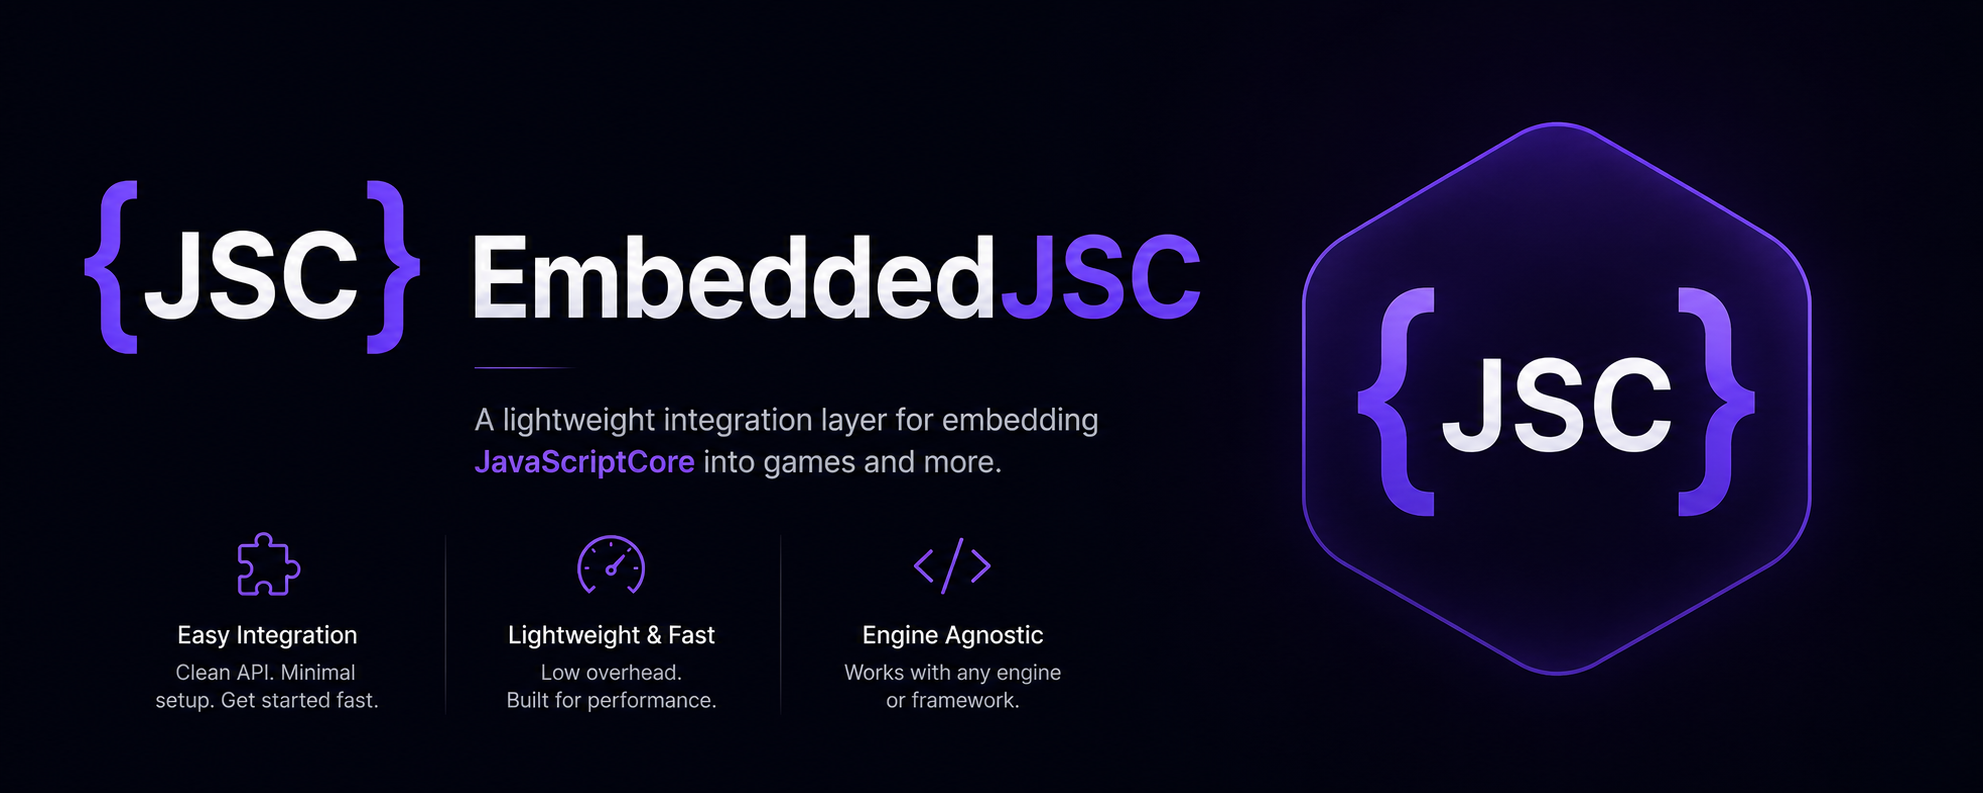
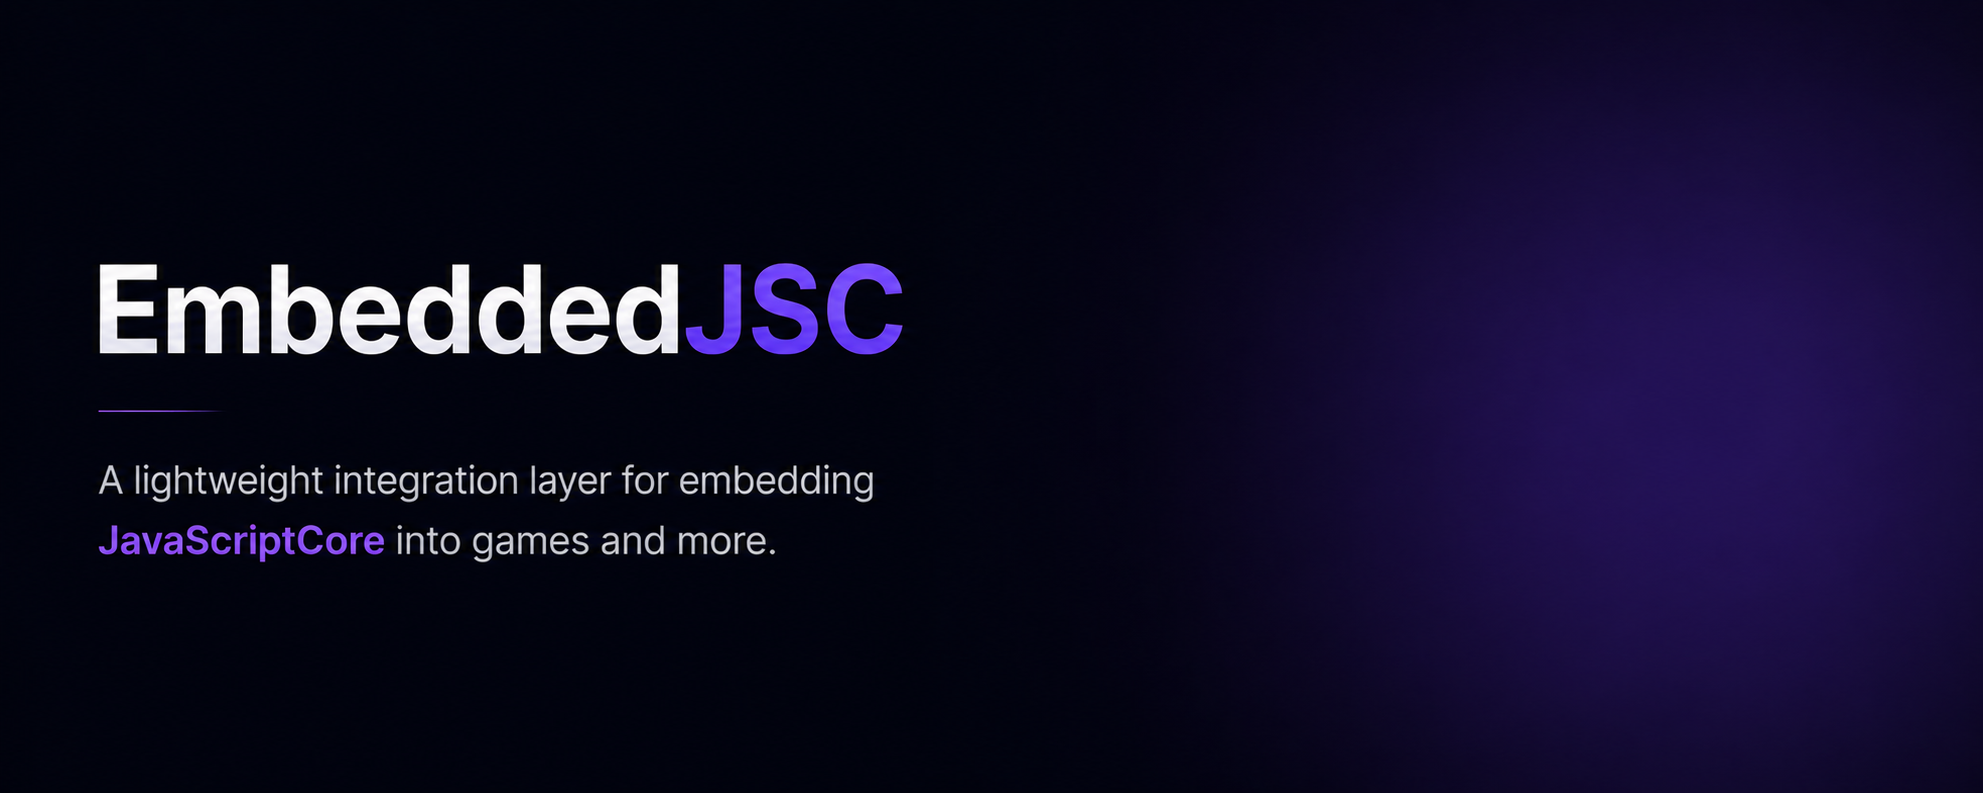
Add Context::RawGlobalContextRef() escape hatch
Embedders that want to call into the JSC C API directly (custom JSClass,
JSObjectGetProperty, JSValueIsObjectOfClass, etc.) need the underlying
JSGlobalContextRef. State() returns ContextState* but ContextState is only
forward-declared in the public header, so consumers can't dereference it.

Expose the raw context handle as `void*` to avoid pulling <JSBase.h> into
every consumer that includes <ejsc/context.h>. Cast back to
JSGlobalContextRef in TUs that need it:

    auto raw = ctx.RawGlobalContextRef();
    auto gctx = static_cast<JSGlobalContextRef>(raw);

diff --git a/include/ejsc/context.h b/include/ejsc/context.h
@@ -43,6 +43,15 @@ public:
     bool  HasException() const;
     Value TakeException();
 
+    // Escape hatch for embedders that want to call into the JSC C API
+    // directly (e.g. JSObjectMake with a custom JSClass, JSValueProtect on
+    // an externally-owned ref, etc.).
+    //
+    // Returned as `void*` to avoid pulling <JavaScriptCore/JSBase.h> into
+    // every consumer that #includes <ejsc/context.h>. Cast to
+    // `JSGlobalContextRef` (a typedef defined in JSBase.h) in TUs that need it.
+    void* RawGlobalContextRef() const noexcept;
+
     // Internal accessors
     internal::ContextState* State() noexcept { return m_state.get(); }
     const internal::ContextState* State() const noexcept { return m_state.get(); }

diff --git a/src/context.cpp b/src/context.cpp
@@ -218,6 +218,14 @@ Value Context::GetGlobal(std::string_view name) {
     return Value::Adopt(*this, v);
 }
 
+void* Context::RawGlobalContextRef() const noexcept {
+    // JSGlobalContextRef is `const struct OpaqueJSContext*` (JSC's typedef
+    // convention). The pointee is opaque, so the const is informational —
+    // strip it so embedders get a plain void* they can cast back.
+    return m_state ? const_cast<void*>(reinterpret_cast<const void*>(m_state->ctxRef))
+                   : nullptr;
+}
+
 void Context::DrainMicrotasks() {
     auto* s = m_state.get();
     JSC::JSLockHolder locker(*s->vm);